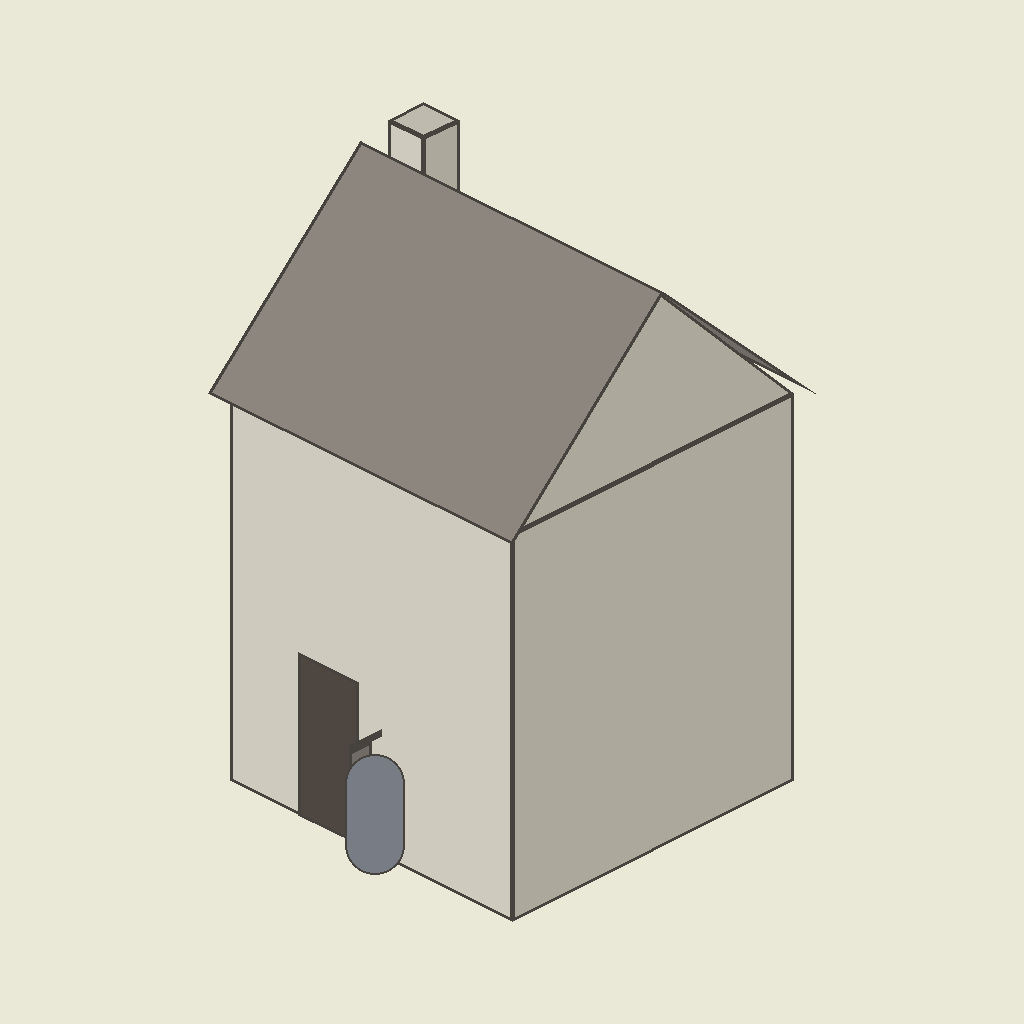
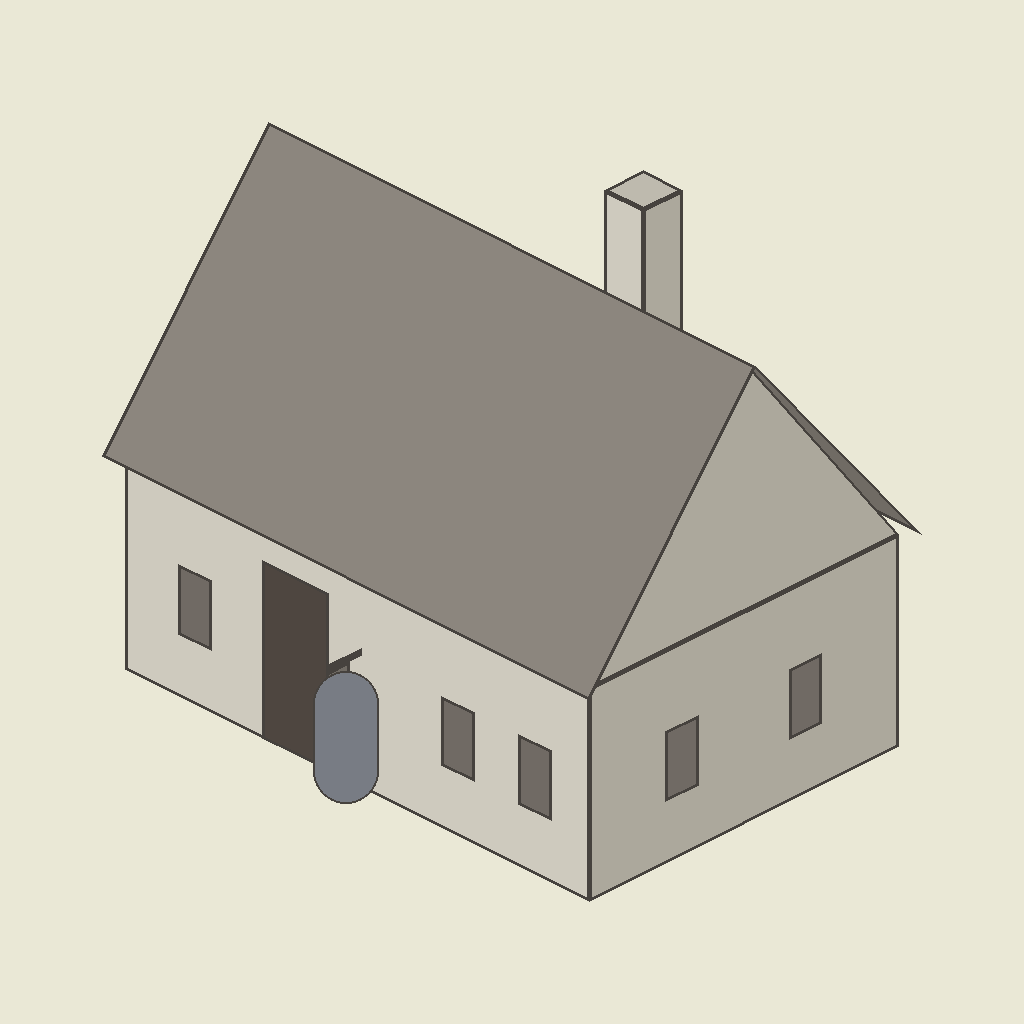
Fall smithy approved and in the game; single-storey building block-outs
Brandon approved the guided smithy (^ shape, forge wing jutting out) and
asked for every village building to be single storey, with bigger
footprints for the tavern (6 x 4) and town hall (7 x 5), east windows on
the homes, and a less stock look. The block-outs carry that; the painting
direction waits on his pick on the studio desk.

Changed region(s): [[0.0938, 0.0938, 0.9062, 0.9062], [0.625, 0.6875, 0.6875, 0.7812], [0.6875, 0.5938, 0.7188, 0.625]]

diff --git a/tools/art/building_guide.py b/tools/art/building_guide.py
@@ -13,7 +13,8 @@ gabled or pyramid roofs; the prompt asks the model to keep them and paint the bu
 
 Coordinates per part are grid cells: x runs along the LEFT front wall (foot_w), y along the right one
 (foot_h); (0, 0) is the back corner. h is wall height in levels, rh roof height, roof "x" puts the ridge
-along x (a long left wall, gable on the right), "y" along y, "pyr" a pyramid, None a flat top.
+along x (a long left wall, gable on the right), "y" along y, "pyr" a pyramid, "shed" a lean-to
+sloping down to the front, None a flat top. "windows" lists ("left" | "right", place along that wall).
 """
 import argparse
 from functools import cmp_to_key
@@ -30,35 +31,45 @@ DOOR = (0.85, 4.6)  # door width in cells, height in levels (74 px; the hero is 
 HERO_H = 3.4  # levels
 
 BUILDINGS = {
-    # The approved fall houses are one storey and a roof; a home stays that size.
+    # Brandon 2026-10-29: every building in the village is single storey (a bigger building gets a bigger
+    # footprint), homes are less generic and have windows on their east (right) walls, and the village
+    # should look less like a stock fantasy village.
+    # Home B: the house with a low lean-to woodshed on the front right end.
     "home_b": {"foot": (4, 3), "parts": [
-        {"box": (0, 0, 4, 3), "h": STOREY, "roof": "x", "rh": 4.5, "door": ("left", 1.0)},
-        {"box": (2.9, 0.9, 3.4, 1.4), "h": STOREY + 6.5, "roof": None, "chimney": True}]},
+        {"box": (0, 0, 4, 2.3), "h": STOREY, "roof": "x", "rh": 4.5, "door": ("left", 1.2),
+         "windows": [("right", 1.15)]},
+        {"box": (2.4, 2.3, 4, 3), "h": 3.4, "roof": "shed", "rh": 1.8, "windows": [("right", 2.65)]},
+        {"box": (0.5, 0.9, 1.0, 1.4), "h": STOREY + 6.0, "roof": None, "chimney": True}]},
+    # Home C: the thatched cottage with a big stone chimney stack on its east gable.
     "home_c": {"foot": (4, 3), "parts": [
-        {"box": (0, 0, 4, 3), "h": STOREY - 0.5, "roof": "x", "rh": 5.0, "door": ("left", 1.0)},
-        {"box": (3.0, 0.6, 3.5, 1.1), "h": STOREY + 6.0, "roof": None, "chimney": True}]},
+        {"box": (0, 0, 3.55, 3), "h": STOREY - 0.5, "roof": "x", "rh": 5.0, "door": ("left", 1.0),
+         "windows": [("left", 2.6), ("right", 0.55), ("right", 2.45)]},
+        {"box": (3.55, 1.1, 4.0, 1.9), "h": STOREY + 6.5, "roof": None, "chimney": True}]},
     # Brandon: the forge should jut out, a ^ shape. Two wings meet at the back corner: the house runs
     # to the right corner, the open forge wing comes forward at the lower left, a yard between them.
+    # Approved 2026-10-29; kept at the sizes it was painted from.
     "smithy": {"foot": (3, 4), "parts": [
-        {"box": (0, 0, 3, 1.7), "h": STOREY, "roof": "x", "rh": 3.5, "door": ("left", 2.3)},
-        {"box": (0, 1.7, 1.6, 4), "h": STOREY - 0.8, "roof": "y", "rh": 2.6, "open": ("right", 2.85)},
-        {"box": (0.2, 3.2, 0.7, 3.7), "h": STOREY + 4.0, "roof": None, "chimney": True}]},
-    # Brandon: sign hanging by the front door, one chimney.
-    "tavern": {"foot": (4, 4), "parts": [
-        {"box": (0, 0, 4, 4), "h": STOREY * 2, "roof": "x", "rh": 5.0, "door": ("left", 1.4), "sign": 2.15},
-        {"box": (0.5, 1.75, 1.0, 2.25), "h": STOREY * 2 + 6.5, "roof": None, "chimney": True}]},
-    # Brandon: read like a town hall (he pointed at World of Warcraft's): a big stout hall, steps up to
-    # wide double doors in a gabled entrance that juts out, a big roof, and a square tower behind it
-    # that tops everything in town.
-    "townhall": {"foot": (5, 5), "parts": [
-        {"box": (0.1, 0.1, 1.9, 1.9), "h": STOREY * 3, "roof": "pyr", "rh": 6.0},
-        {"box": (0, 0.6, 5, 4.1), "h": STOREY * 1.8, "roof": "x", "rh": 7.0},
-        {"box": (1.6, 4.1, 3.4, 5), "h": STOREY * 1.5, "roof": "y", "rh": 4.0, "door": ("left", 2.5), "wide": True}]},
+        {"box": (0, 0, 3, 1.7), "h": 4.5, "roof": "x", "rh": 3.5, "door": ("left", 2.3)},
+        {"box": (0, 1.7, 1.6, 4), "h": 3.7, "roof": "y", "rh": 2.6, "open": ("right", 2.85)},
+        {"box": (0.2, 3.2, 0.7, 3.7), "h": 8.5, "roof": None, "chimney": True}]},
+    # Tavern: one long low common room under a big roof, one chimney, the sign by the door.
+    "tavern": {"foot": (6, 4), "parts": [
+        {"box": (0, 0, 6, 4), "h": STOREY, "roof": "x", "rh": 6.5, "door": ("left", 2.2), "sign": 3.05,
+         "windows": [("left", 0.9), ("left", 4.3), ("left", 5.3), ("right", 1.2), ("right", 2.8)]},
+        {"box": (4.4, 1.7, 4.9, 2.2), "h": STOREY + 9.5, "roof": None, "chimney": True}]},
+    # Town hall: the biggest single-storey hall in town, a tall gabled entrance that juts out with wide
+    # double doors, and a lantern on the ridge instead of a church-like bell tower.
+    "townhall": {"foot": (7, 5), "parts": [
+        {"box": (3.1, 1.65, 3.9, 2.45), "h": STOREY * 1.25 + 9.5, "roof": "pyr", "rh": 3.5},
+        {"box": (0, 0, 7, 4.1), "h": STOREY * 1.25, "roof": "x", "rh": 7.5,
+         "windows": [("left", 1.1), ("left", 5.9), ("right", 1.0), ("right", 3.0)]},
+        {"box": (2.6, 4.1, 4.4, 5), "h": STOREY * 1.1, "roof": "y", "rh": 3.8, "door": ("left", 3.5), "wide": True}]},
 }
 
 C_LEFT, C_RIGHT, C_TOP = (206, 202, 190), (172, 168, 156), (190, 186, 174)
 C_ROOF, C_ROOF_DARK = (140, 134, 126), (112, 107, 100)
 C_LINE, C_DOOR, C_FIG = (70, 66, 62), (78, 70, 64), (120, 124, 132)
+C_WINDOW = (112, 106, 100)
 
 
 def iso(x, y, h):
@@ -75,9 +86,13 @@ def polys(part):
             out.append(([(x0, y1 + d, 0), (x1, y1 + d, 0), (x1, y1 + d, top), (x0, y1 + d, top)], C_LEFT))
             out.append(([(x0, y1, top), (x1, y1, top), (x1, y1 + d, top), (x0, y1 + d, top)], C_TOP))
         return out
-    out.append(([(x0, y1, 0), (x1, y1, 0), (x1, y1, h), (x0, y1, h)], C_LEFT))
-    out.append(([(x1, y0, 0), (x1, y1, 0), (x1, y1, h), (x1, y0, h)], C_RIGHT))
     roof, e = part["roof"], 0.15
+    out.append(([(x0, y1, 0), (x1, y1, 0), (x1, y1, h), (x0, y1, h)], C_LEFT))
+    if roof == "shed":  # a lean-to: high at the back (y0), low at the front
+        out.append(([(x1, y0, 0), (x1, y1, 0), (x1, y1, h), (x1, y0, h + rh)], C_RIGHT))
+        out.append(([(x0 - e, y0, h + rh), (x1 + e, y0, h + rh), (x1 + e, y1 + e, h), (x0 - e, y1 + e, h)], C_ROOF))
+    else:
+        out.append(([(x1, y0, 0), (x1, y1, 0), (x1, y1, h), (x1, y0, h)], C_RIGHT))
     if roof is None:
         out.append(([(x0, y0, h), (x1, y0, h), (x1, y1, h), (x0, y1, h)], C_TOP))
     elif roof == "x":
@@ -94,6 +109,12 @@ def polys(part):
         xm, ym, H = (x0 + x1) / 2, (y0 + y1) / 2, h + rh
         out.append(([(x0 - e, y1 + e, h), (x1 + e, y1 + e, h), (xm, ym, H)], C_ROOF))
         out.append(([(x1 + e, y0 - e, h), (x1 + e, y1 + e, h), (xm, ym, H)], C_ROOF_DARK))
+    for side, c in part.get("windows", []):  # small windows, sill 1.6 levels up
+        w, s0, s1 = 0.42, 1.6, 3.4
+        if side == "left":
+            out.append(([(c - w / 2, y1, s0), (c + w / 2, y1, s0), (c + w / 2, y1, s1), (c - w / 2, y1, s1)], C_WINDOW))
+        else:
+            out.append(([(x1, c - w / 2, s0), (x1, c + w / 2, s0), (x1, c + w / 2, s1), (x1, c - w / 2, s1)], C_WINDOW))
     if "door" in part:
         side, c = part["door"]
         w = DOOR[0] * (1.6 if part.get("wide") else 1.0)

diff --git a/docs/art/ART-LOG.md b/docs/art/ART-LOG.md
@@ -66,7 +66,7 @@ Add a row for each new batch: date, tool, prompt file, model, count, cost if kno
 | 2026-10-29 | Fall buildings sheet B with line art: smithy, tavern, town hall (`art/picsart/out/village-fall/buildings_b_v1.png`, cut into `cut/b_smithy`, `b_tavern`, `b_townhall`; all pass the busyness bar; town hall turned its gable to the camera, left wall 0.62) | `picsart_sheet.py` | `art/prompts/village-fall-buildings-big.txt` | GPT image (Picsart), 2K | 1 sheet, 3 buildings | $0.09452 | go: Brandon (studio card `fall-sheet-b`); results on review card `fall-buildings-line-review`: smithy and tavern redo, town hall rejected |
 | 2026-10-29 | Homes B and C re-roll, 4 x 3, with line art (`buildings_long_v1.png`, cut into `cut/b_home_b`, `b_home_c`, left wall 0.59 and 0.60; the old square cuts kept as `b_home_*_square.png`) | `picsart_sheet.py` | `art/prompts/village-fall-buildings-long.txt` | GPT image (Picsart), 2K | 1 sheet, 2 buildings | $0.09452 | go: Brandon (studio card `homes-bc`); review `fall-buildings-line-review`: home B rejected (reads like a manor), home C redo. Next: the guided flow (`village-fall-building-guided.txt`), go card `fall-buildings-guided-go` |
 | 2026-10-29 | Lead hero animation sheets v2, all five facings: eyes showing, fifth idle frame with the eyes shut (`art/picsart/out/anim-lead-<dir>_v2.png`, cut into the game after his stamp) | `char_sheet.py` | `art/prompts/sheet-character-anim.txt` | GPT image (Picsart), 1K | 5 sheets | $0.2744 | go: Brandon (studio card `lead-anim-v2-go`); approved by Brandon on review card `lead-anim-v2-review`, cut into `game/art/source/characters/lead/` |
-| 2026-10-29 | Fall buildings, guided: home B, home C, smithy, tavern, town hall, each painted over a game-grid block-out (`art/templates/buildings/guide_*.png`), two tries each (`art/picsart/out/village-fall/guided/guided_<name>_v1/_v2.png`, cuts in `guided/cut_v1`, `cut_v2`). All sit on their footprints, doors taller than the hero, all under the busyness bar. Picks: home B v2, home C v1, smithy v2, tavern v2, town hall v1 | `picsart_sheet.py` | `art/prompts/village-fall-building-guided.txt` (asks in `-asks.txt`) | GPT image (Picsart), 2K, 1:1 | 10 pictures | $1.4272 (14.3 cents a square 2K picture) | go: Brandon (studio card `fall-buildings-guided-go`); results on review card `fall-buildings-guided-review` |
+| 2026-10-29 | Fall buildings, guided: home B, home C, smithy, tavern, town hall, each painted over a game-grid block-out (`art/templates/buildings/guide_*.png`), two tries each (`art/picsart/out/village-fall/guided/guided_<name>_v1/_v2.png`, cuts in `guided/cut_v1`, `cut_v2`). All sit on their footprints, doors taller than the hero, all under the busyness bar. Picks: home B v2, home C v1, smithy v2, tavern v2, town hall v1. Brandon 2026-10-29: smithy **approved** (in `game/art/source/battle/village/b_smithy.png`, copy in `village-fall/approved/`); the other four redo single storey, less generic, east windows (direction card `fall-buildings-direction`) | `picsart_sheet.py` | `art/prompts/village-fall-building-guided.txt` (asks in `-asks.txt`) | GPT image (Picsart), 2K, 1:1 | 10 pictures | $1.4272 (14.3 cents a square 2K picture) | go: Brandon (studio card `fall-buildings-guided-go`); results on review card `fall-buildings-guided-review` |
 
 ## Removed, replaced with placeholders (approved 2026-10-28)
 

diff --git a/docs/decisions.md b/docs/decisions.md
@@ -287,3 +287,5 @@ Every design call goes here, newest at the bottom of its section.
 - [AI] 2026-10-29 Following that: wolf, bandit and bandit archer each lose 1 hit and 1 damage (wolf and bandit +3 / 2, archer +2 / 2). Melee now also reaches over any step a piece could walk with Jump 1, so a stair spanning 3 levels can be fought across: a foe standing on one held the only way down and was safe from the top (the AI party starved on the ledge). Level 1 road fights on auto: wolves 98%, bandits 99%.
 - [USER] 2026-10-29 Once a place on the big map is cleared it shows as done and the next place past it is revealed; the player clicks the next place to journey past, or clicks the cleared place to go in again, like the paths and level nodes of an old console map (Brandon, on the boss-skip card).
 - [AI] 2026-10-29 Following that: places carry `clear_flag` (the pass: `beat_lich`) and `after` (hidden until that place is done). A done place wears a gold check seal. The party walks past done places (and the town) on its way and stops at places still to clear. Past the pass lies a placeholder place with no map yet.
+- [USER] 2026-10-29 Every building in the starting village is single storey; a bigger building (tavern, town hall) gets a bigger footprint instead. Homes need windows on their east walls and should be less generic: the village should look less like a stock fantasy village. Smithy (^ shape, forge wing jutting out) approved (Brandon, studio review).
+- [AI] 2026-10-29 Following that: the block-outs propose the tavern at 6 x 4 (was 4 x 4) and the town hall at 7 x 5 (was 5 x 5), with a lantern on the hall's ridge instead of a bell tower. `game/data/catalog.csv` and the village map keep the old sizes until those buildings are approved; the map builder then makes room.
